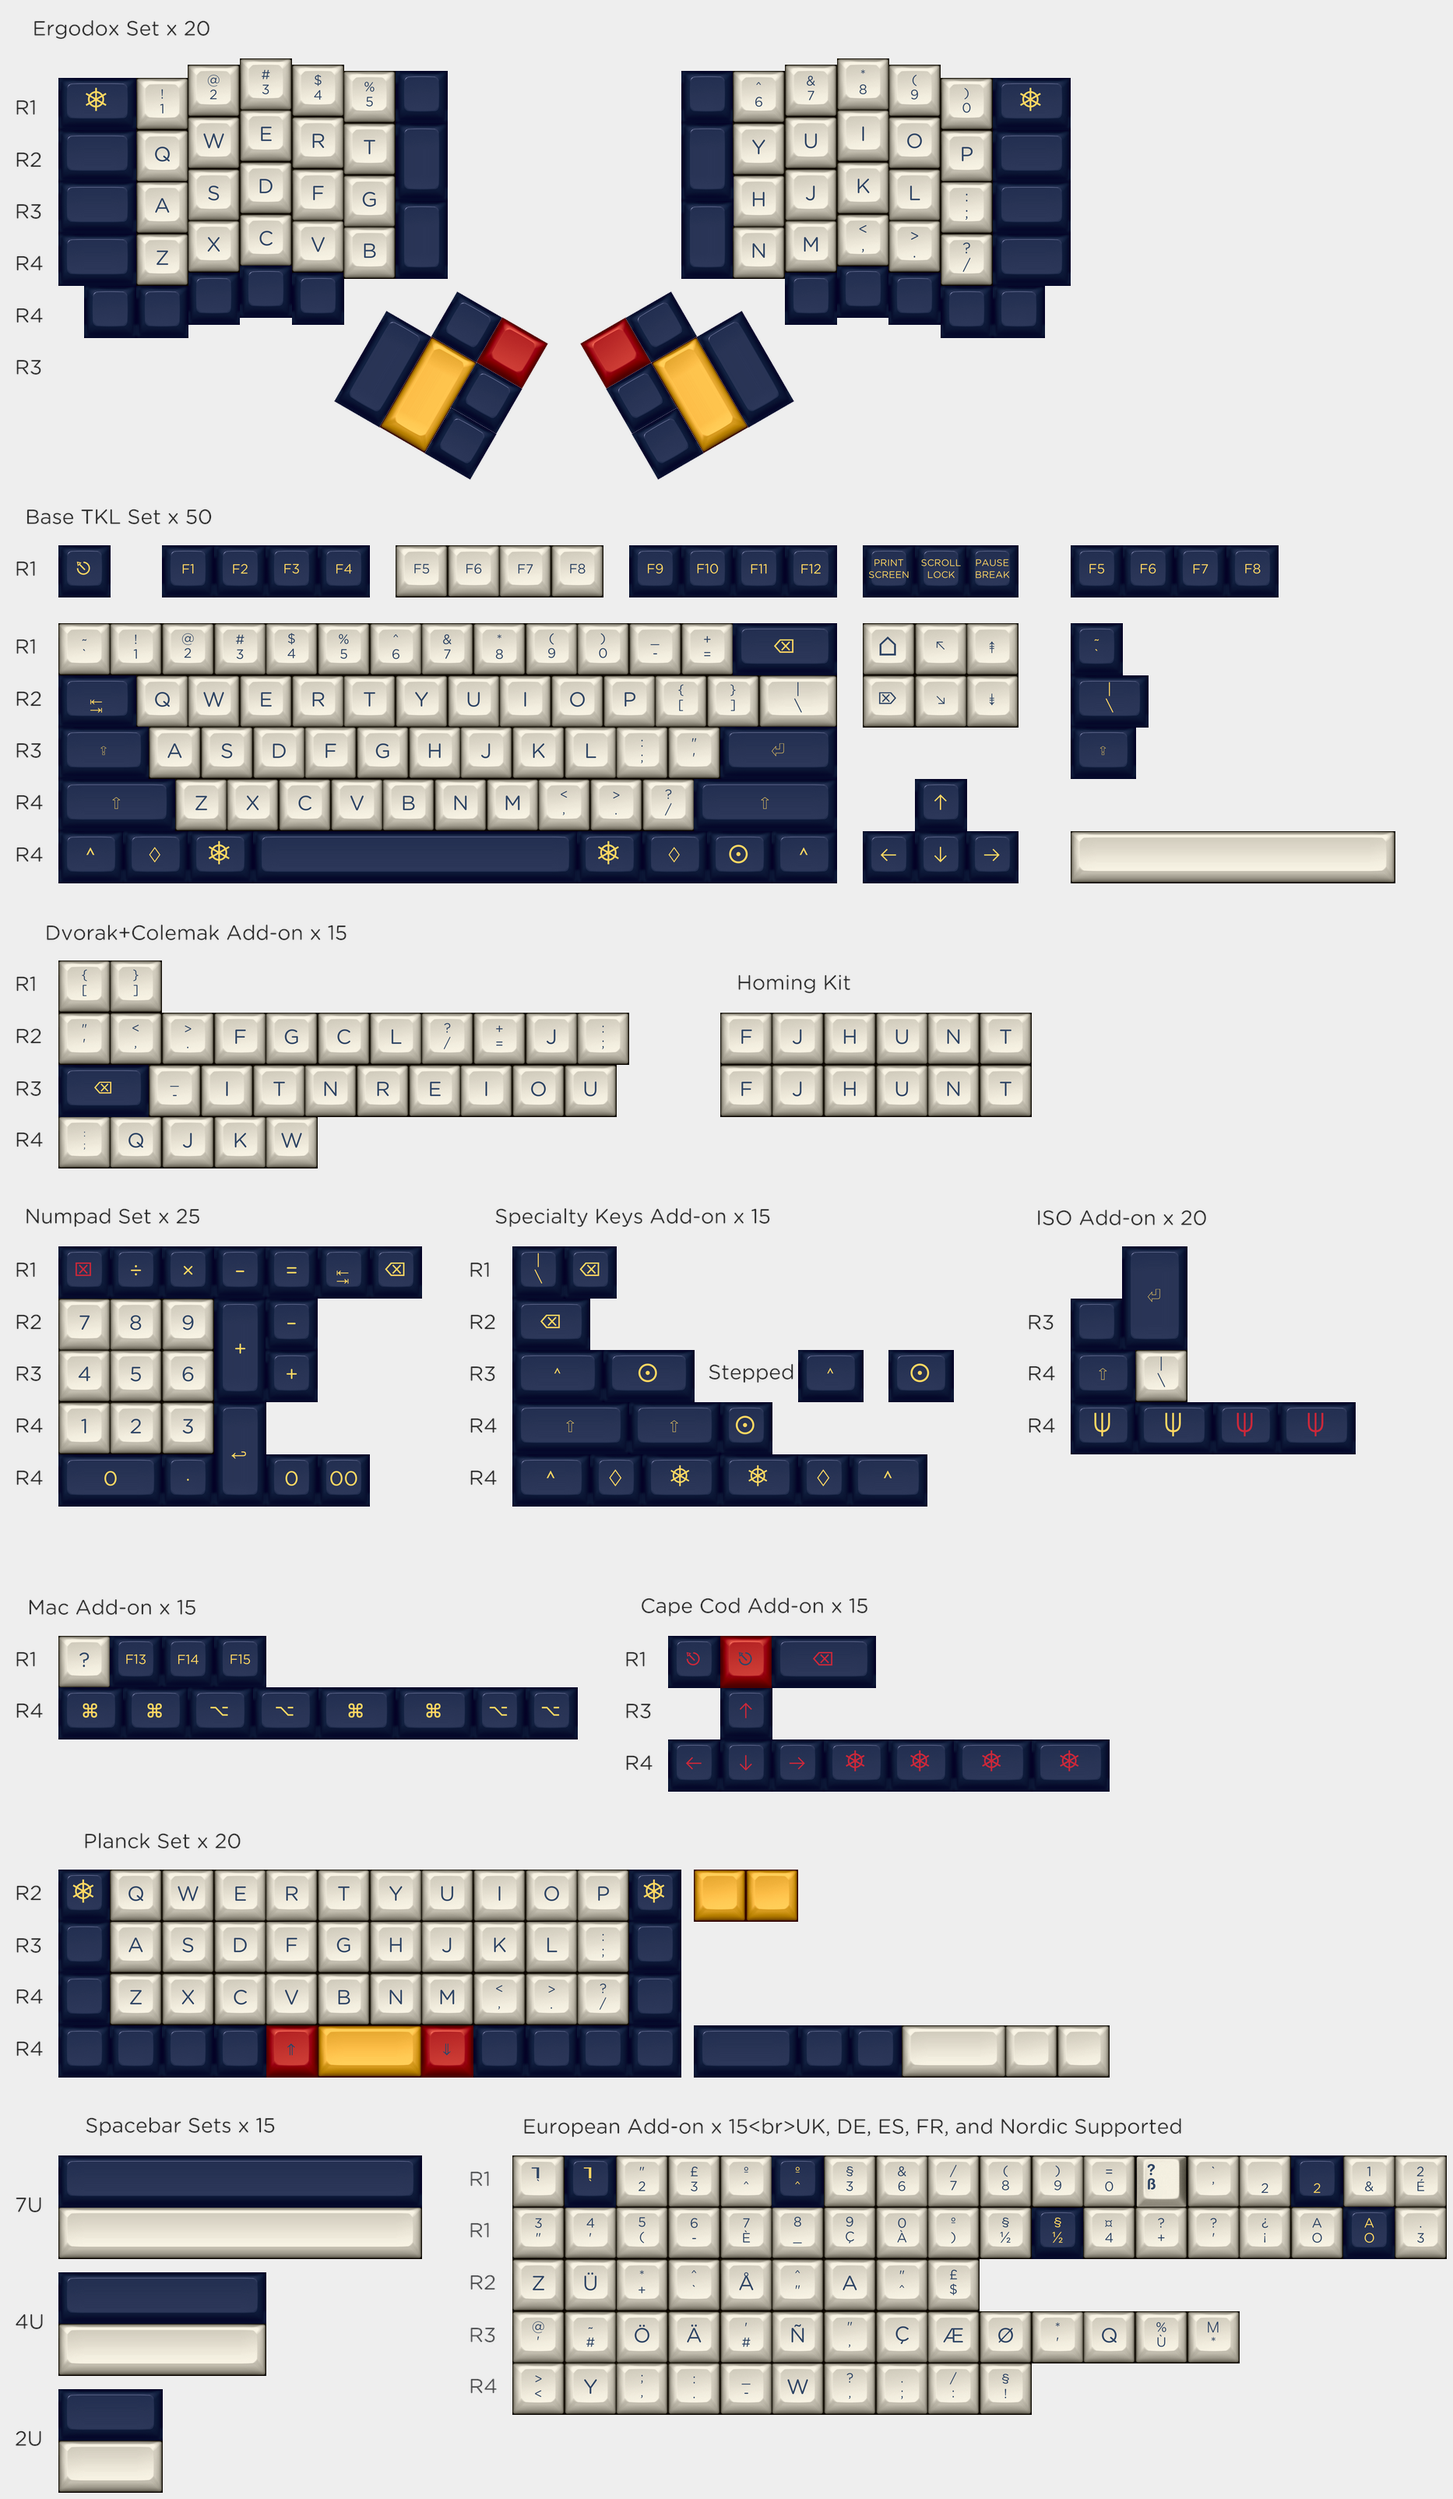
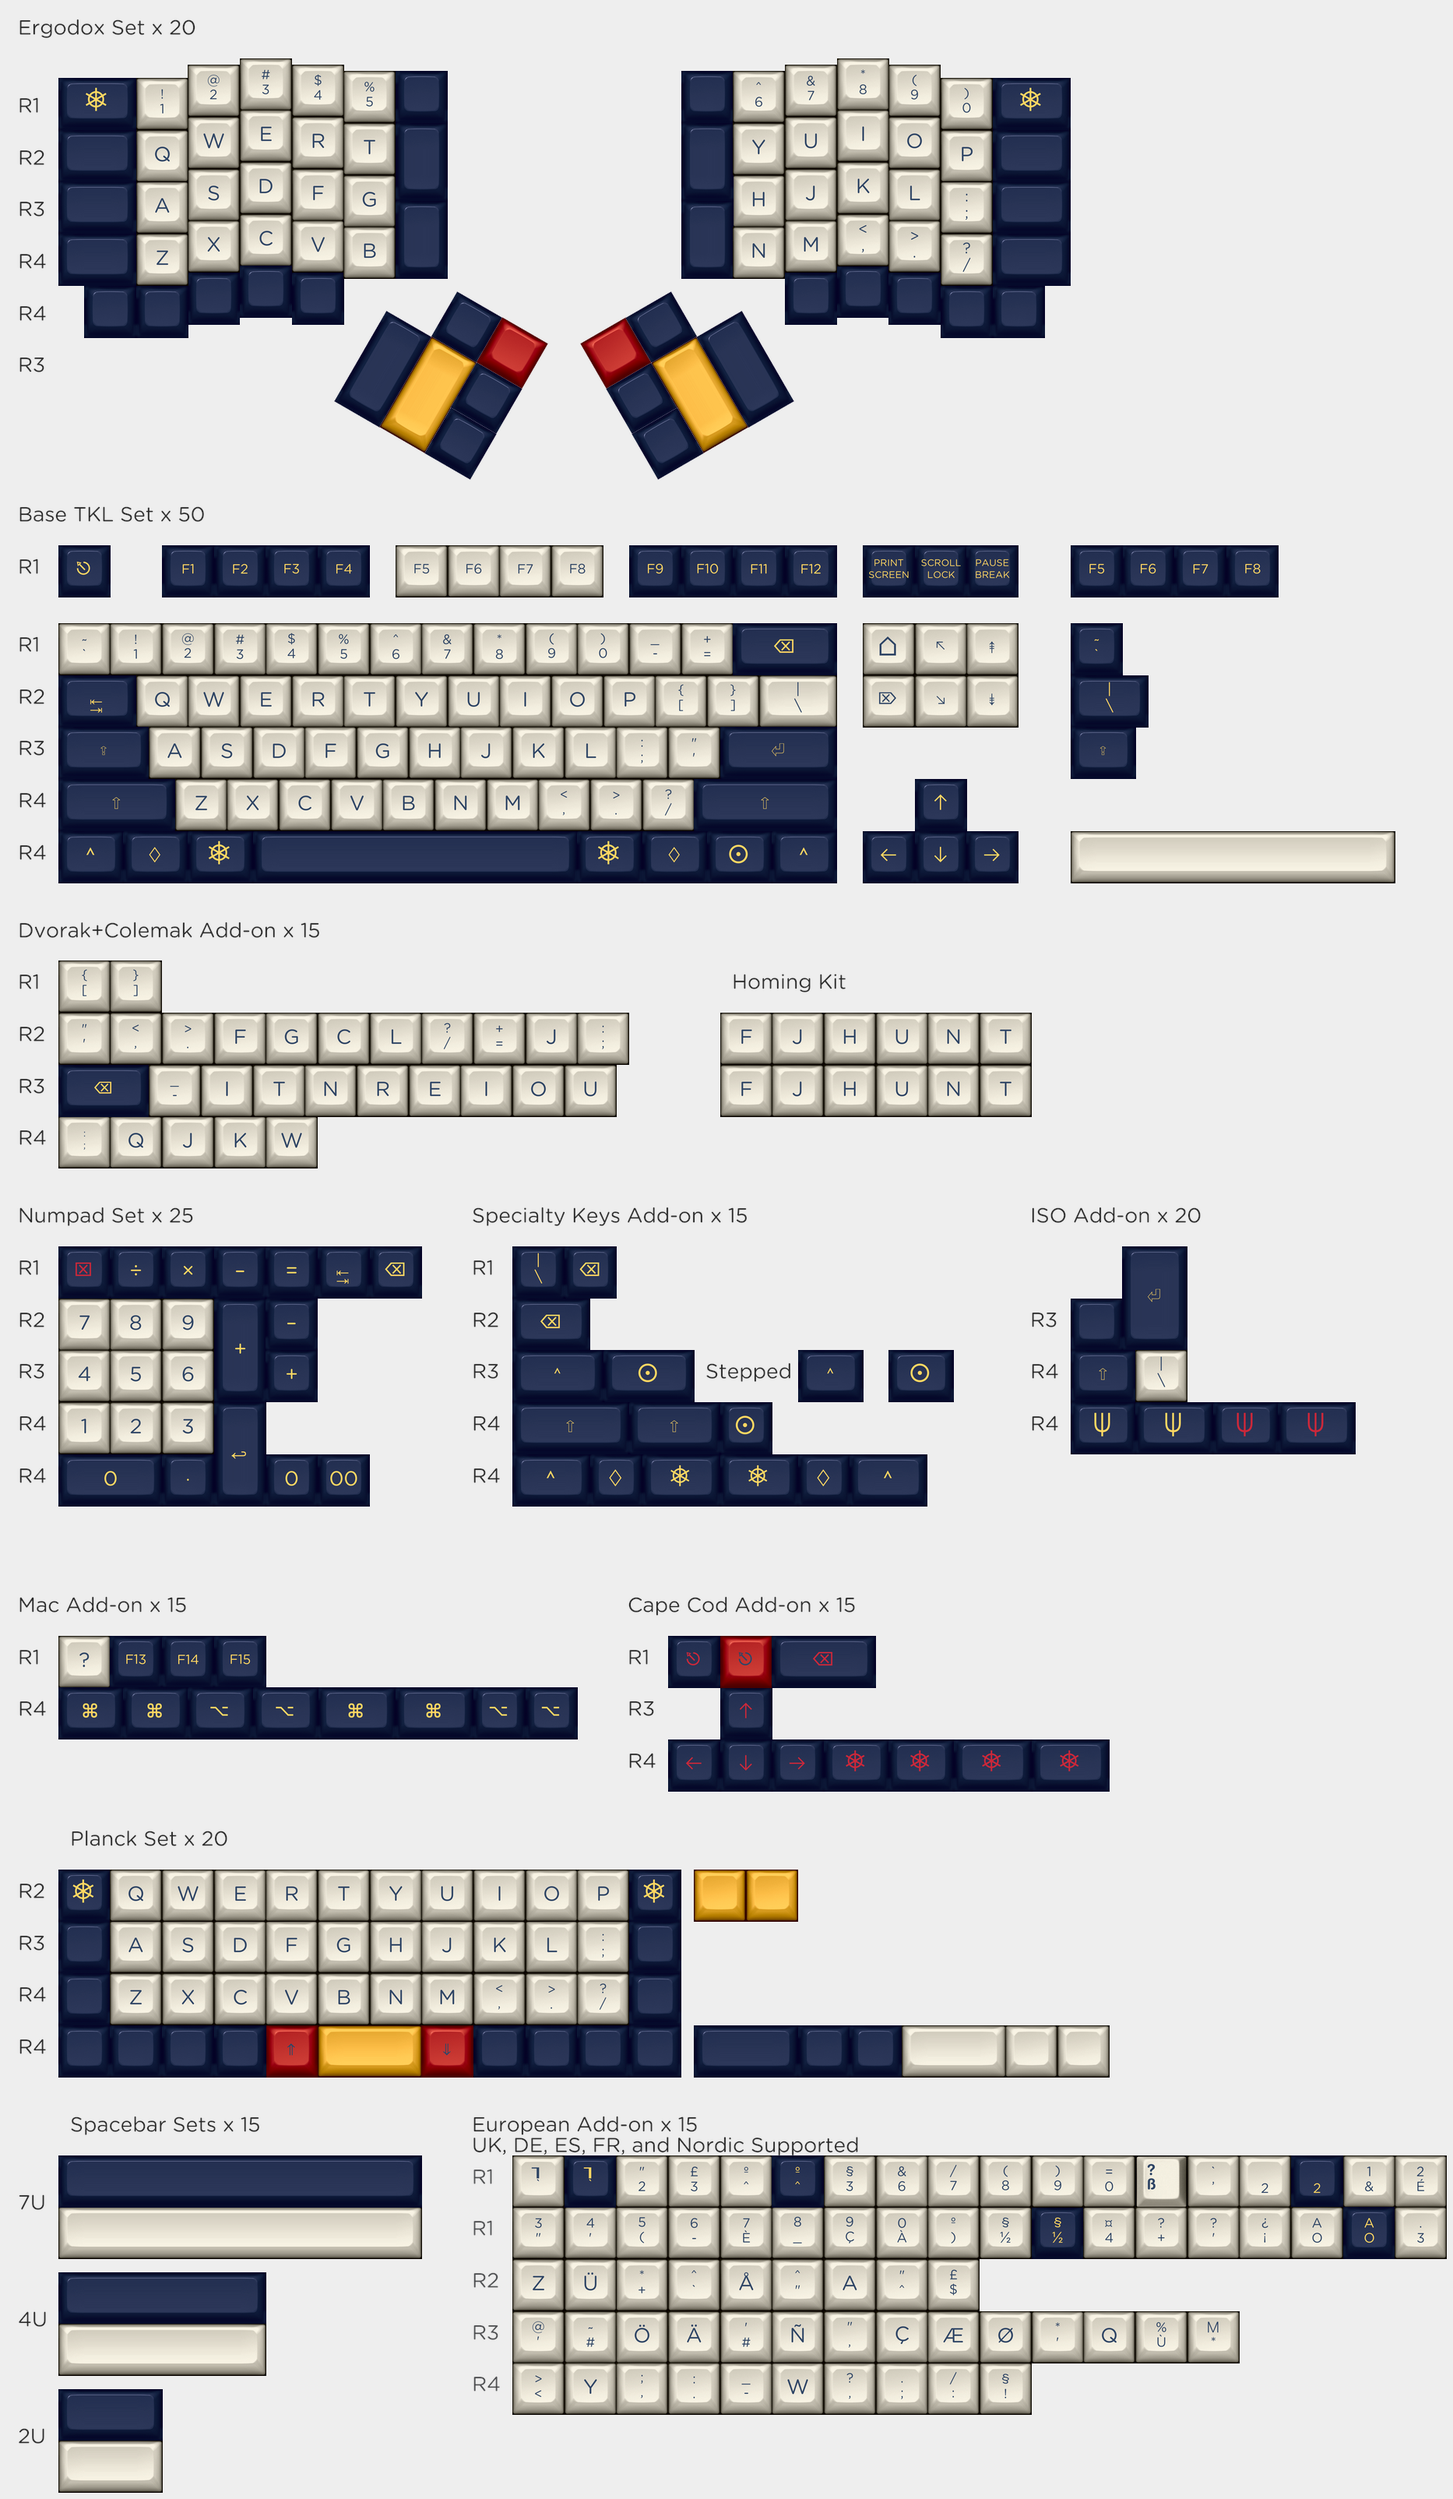
Supports html line breaks, better decal rendering. Debugging github api requests on heroku

diff --git a/key.py b/key.py
@@ -159,7 +159,7 @@ class Key(object):
         gotham = ImageFont.truetype(self.font_path(), int(self.font_size*scale_factor)+min_size)
         w = max([gotham.getsize(text)[0] for text in labels]) # max of widths
         h = sum([gotham.getsize(text)[1] for text in labels]) # sum of heights
-        h += line_spacing*(len([text for text in labels if len(text) > 0])-1)
+        h += line_spacing*(len([text for text in labels if len(text) > 0]))
 
         key_img = Image.new('RGBA', (w+64, h+108))
         return key_img
@@ -196,7 +196,7 @@ class Key(object):
             c = tuple(band + 0x26 for band in c) # Simulates reflectivity 
 
             if len(labels) <= 2 and labels[0] != '': # If 2 or fewer labels, center accurately depending on profile
-                if self.profile.startswith(GMK_LABELS):
+                if self.profile.startswith(GMK_LABELS) or self.decal:
                     draw.multiline_text((45, 45-offset), '\n'.join(labels), font=font, fill=c, spacing=line_spacing)
                 else:
                     w = max([font.getsize(text)[0] for text in labels]) # max of label widths

diff --git a/app.py b/app.py
@@ -35,6 +35,7 @@ def serve_pil_image(pil_img):
 @api.doc(params={'id': 'Copy from keyboard-layout-editor.com/#/gists/<id>'})
 class FromGist(Resource):
     def get(self, id):
+        print(requests.get('http://api.github.com/gists/%s' % id).json())
         data = kle_render.deserialise(json.loads([value for key, value in requests.get('http://api.github.com/gists/%s' % id).json()['files'].items() if key.endswith('.kbd.json')][0]['content']))
         img = kle_render.render_keyboard(data)
         return serve_pil_image(img)

diff --git a/kle_render.py b/kle_render.py
@@ -42,6 +42,7 @@ def html_to_unicode(html): # unescaped html input
     pattern = re.compile('|'.join(("<i class='fa {}'></i>".format(icon) for icon in d.keys()))) # I know, re's and html...
 
     result = pattern.sub(lambda x: chr(int(d[x.group()[13:-6]], 16)), html)
+    result = result.replace('<br>', '\n').replace('<br/>', '\n')
     return re.sub(cleanr, '', result)
 
 def deserialise(rows): # where rows is a dictionary version of Keyboard Layout Editor's JSON Output
